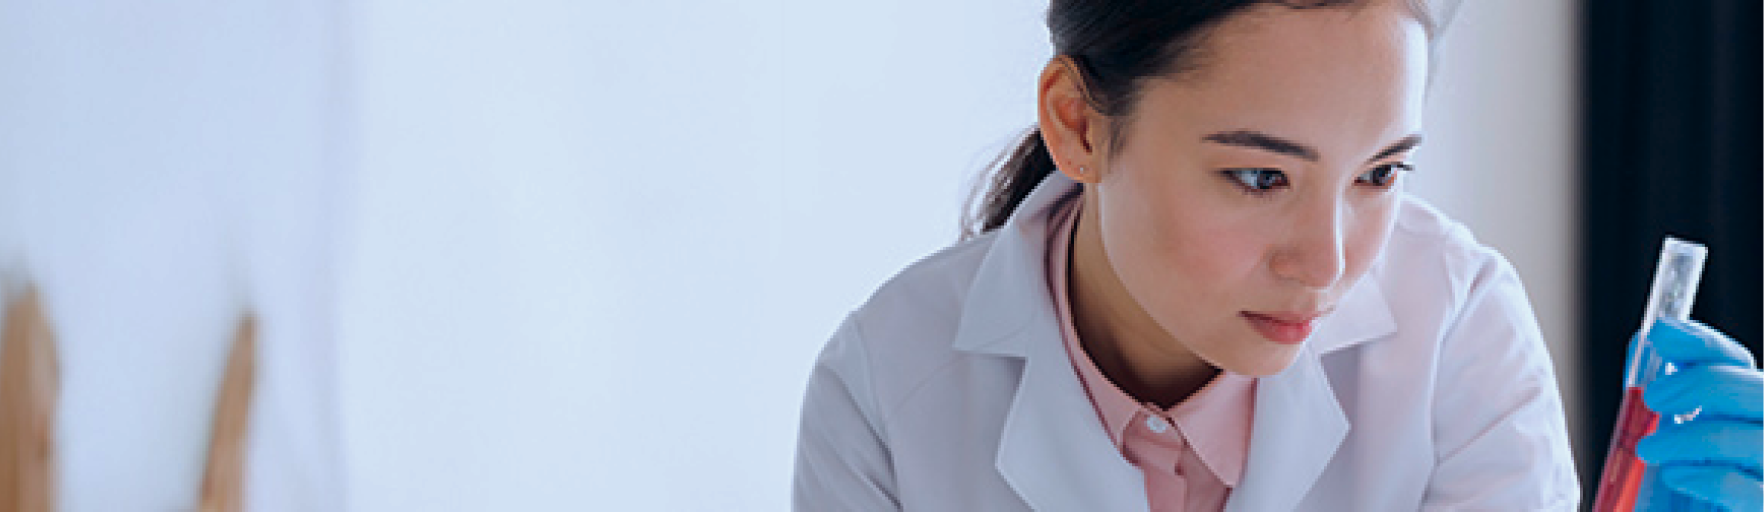
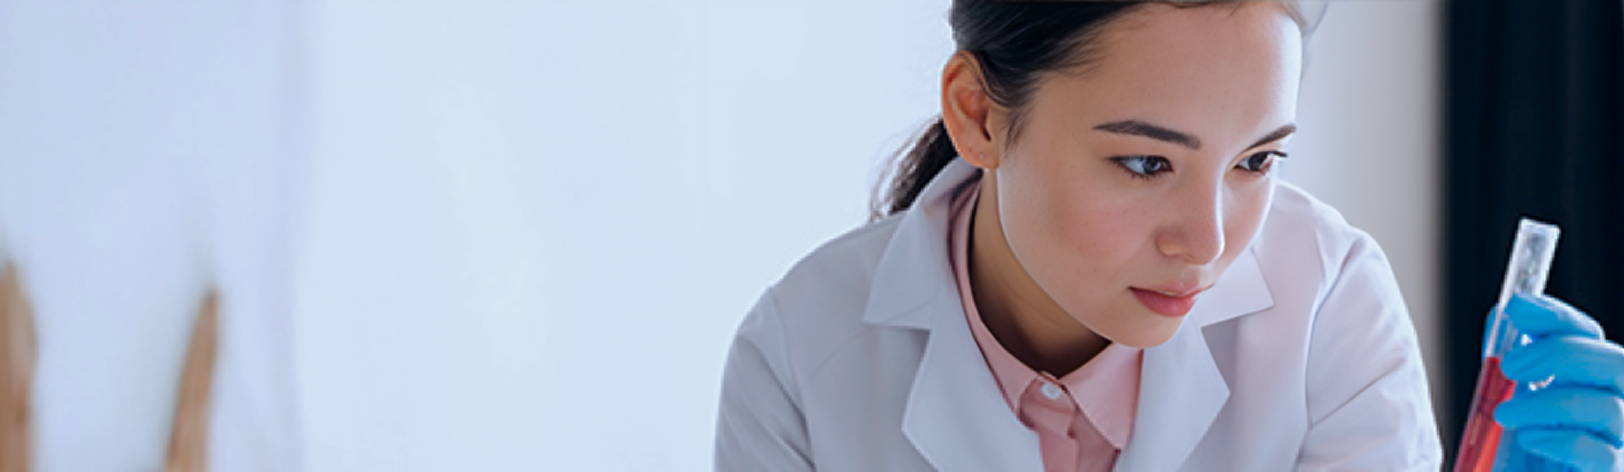
fix: pics replace

diff --git a/src/components/VideoBox/VideoBox.tsx b/src/components/VideoBox/VideoBox.tsx
@@ -161,11 +161,15 @@ export const VideoBox: React.FC = () => {
             >
               {isPC && (
                 <div className="text-white pr-[26em]">
-                  <p className="text-heading-xl">{welcome as string}</p>
+                  {currentVideoIndex === 0 && (
+                    <>
+                      <p className="text-heading-xl">{welcome as string}</p>
 
-                  <p className="!text-body-m py-[24px]">
-                    {innoCarnival as string}
-                  </p>
+                      <p className="!text-body-m py-[24px]">
+                        {innoCarnival as string}
+                      </p>
+                    </>
+                  )}
                 </div>
               )}
               <div className="flex flex-row">
@@ -244,12 +248,4 @@ const progressBarStyle: React.CSSProperties = {
   height: "100%",
   background: "#D1E39B",
   transition: "width 0.1s ease-out",
-};
-
-const buttonStyle: React.CSSProperties = {
-  padding: "10px 20px",
-  backgroundColor: "#FFFFFF",
-  color: "#000000",
-  cursor: "pointer",
-  border: "none",
 };

diff --git a/src/pages/Industry/Industry.tsx b/src/pages/Industry/Industry.tsx
@@ -9,7 +9,7 @@ import {
 import { ExploreDetailBar } from "../../components/Navigator";
 
 import { IndustryContent } from "./IndustryContent";
-import { Language, useSettings } from "../../context";
+import { useSettings } from "../../context";
 
 const multilingual = {
   en: {
@@ -38,7 +38,9 @@ export const Industry: React.FC = () => {
         title={industry as string}
         titleTheme="growthfulGreen"
         description={desc as string}
-        barBackgroundImg="industry/banner_bg_2.png"
+        barBackgroundImg={
+          isPC ? "industry/banner_bg_1.png" : "industry/banner_bg_2.png"
+        }
       />
       <div style={isPC ? maxPCContainer : maxMobileContainer}>
         {isPC && (

diff --git a/src/pages/CareerEducation/CareerEducation.tsx b/src/pages/CareerEducation/CareerEducation.tsx
@@ -23,7 +23,7 @@ import { CareerOpportunities } from "./CareerOpportunities/CareerOpportunities";
 import { ProgrammesCourses } from "./ProgrammesCourses/ProgrammesCourses";
 import { QualificationsFramework } from "./QualificationsFramework/QualificationsFramework";
 import { LearningTeachingResources } from "./LearningTeachingResources/LearningTeachingResources";
-import { Language, useSettings } from "../../context";
+import { useSettings } from "../../context";
 
 const sidebarComponent: Partial<
   Record<

diff --git a/src/pages/CareerEducation/CareerDevelopment/CareerDevelopment.tsx b/src/pages/CareerEducation/CareerDevelopment/CareerDevelopment.tsx
@@ -2,7 +2,7 @@ import React from "react";
 import { SquareTitle, MediaTemplateWithDialog } from "../../../components";
 import { useNavigate } from "react-router-dom";
 import { MEDIA_TYPE, navItemEnum } from "../../../const";
-import { Language, useSettings } from "../../../context";
+import { useSettings } from "../../../context";
 
 const multilingual = {
   en: {

diff --git a/src/components/Quiz/Quiz.tsx b/src/components/Quiz/Quiz.tsx
@@ -1,6 +1,5 @@
 import React, { useEffect, useState } from "react";
 import { ArrowForwardIos } from "@mui/icons-material";
-import { t2s } from "chinese-s2t";
 import { QUIZ, QuizStage, type QuizAnswers } from "./types";
 import { quizInteractionCNMap, quizInteractionMap } from "./const";
 import { Language, useSettings } from "../../context";

diff --git a/src/pages/EducatorsStudents/PhotoPanel.tsx b/src/pages/EducatorsStudents/PhotoPanel.tsx
@@ -1,5 +1,5 @@
 import React from "react";
-import { Language, useSettings } from "../../context";
+import { useSettings } from "../../context";
 import { navItemEnum } from "../../const";
 import { useNavigate } from "react-router-dom";
 
